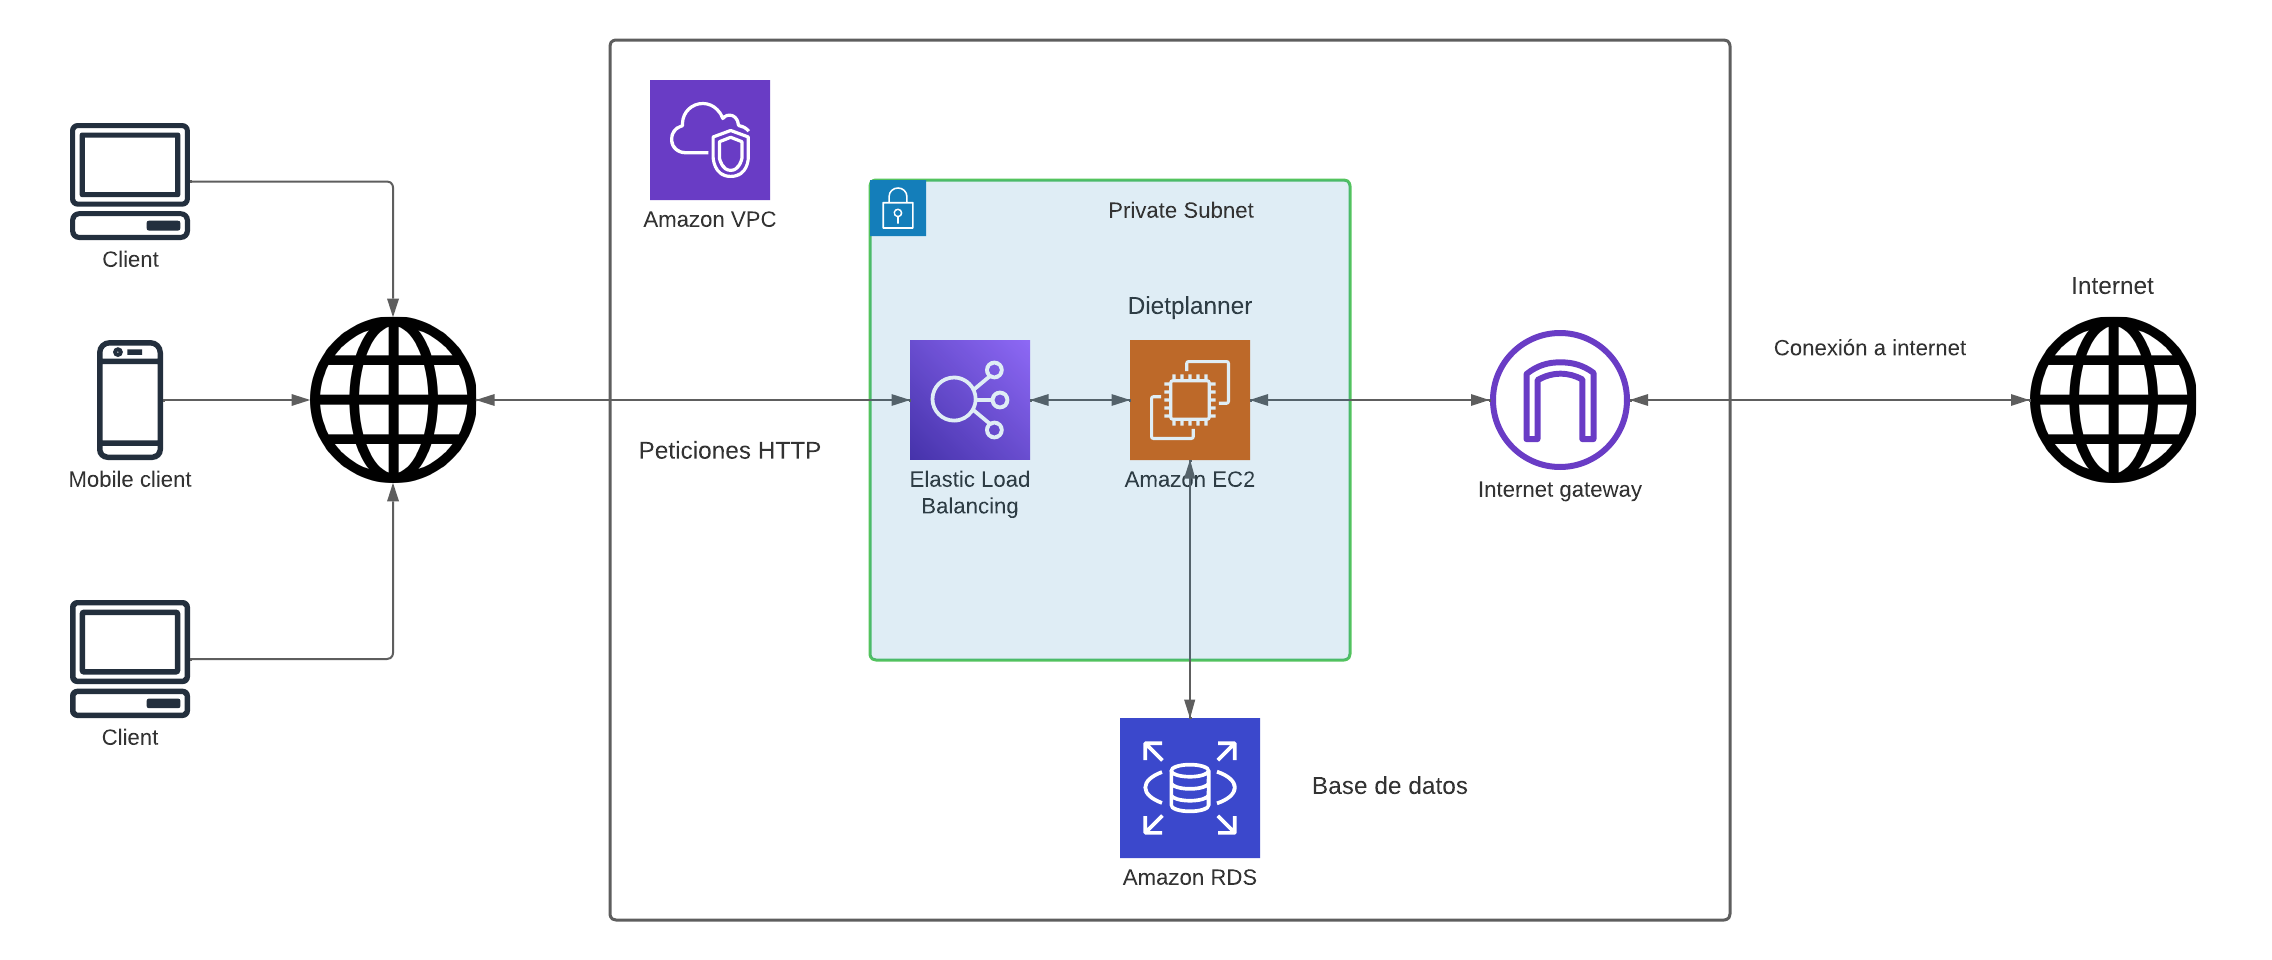
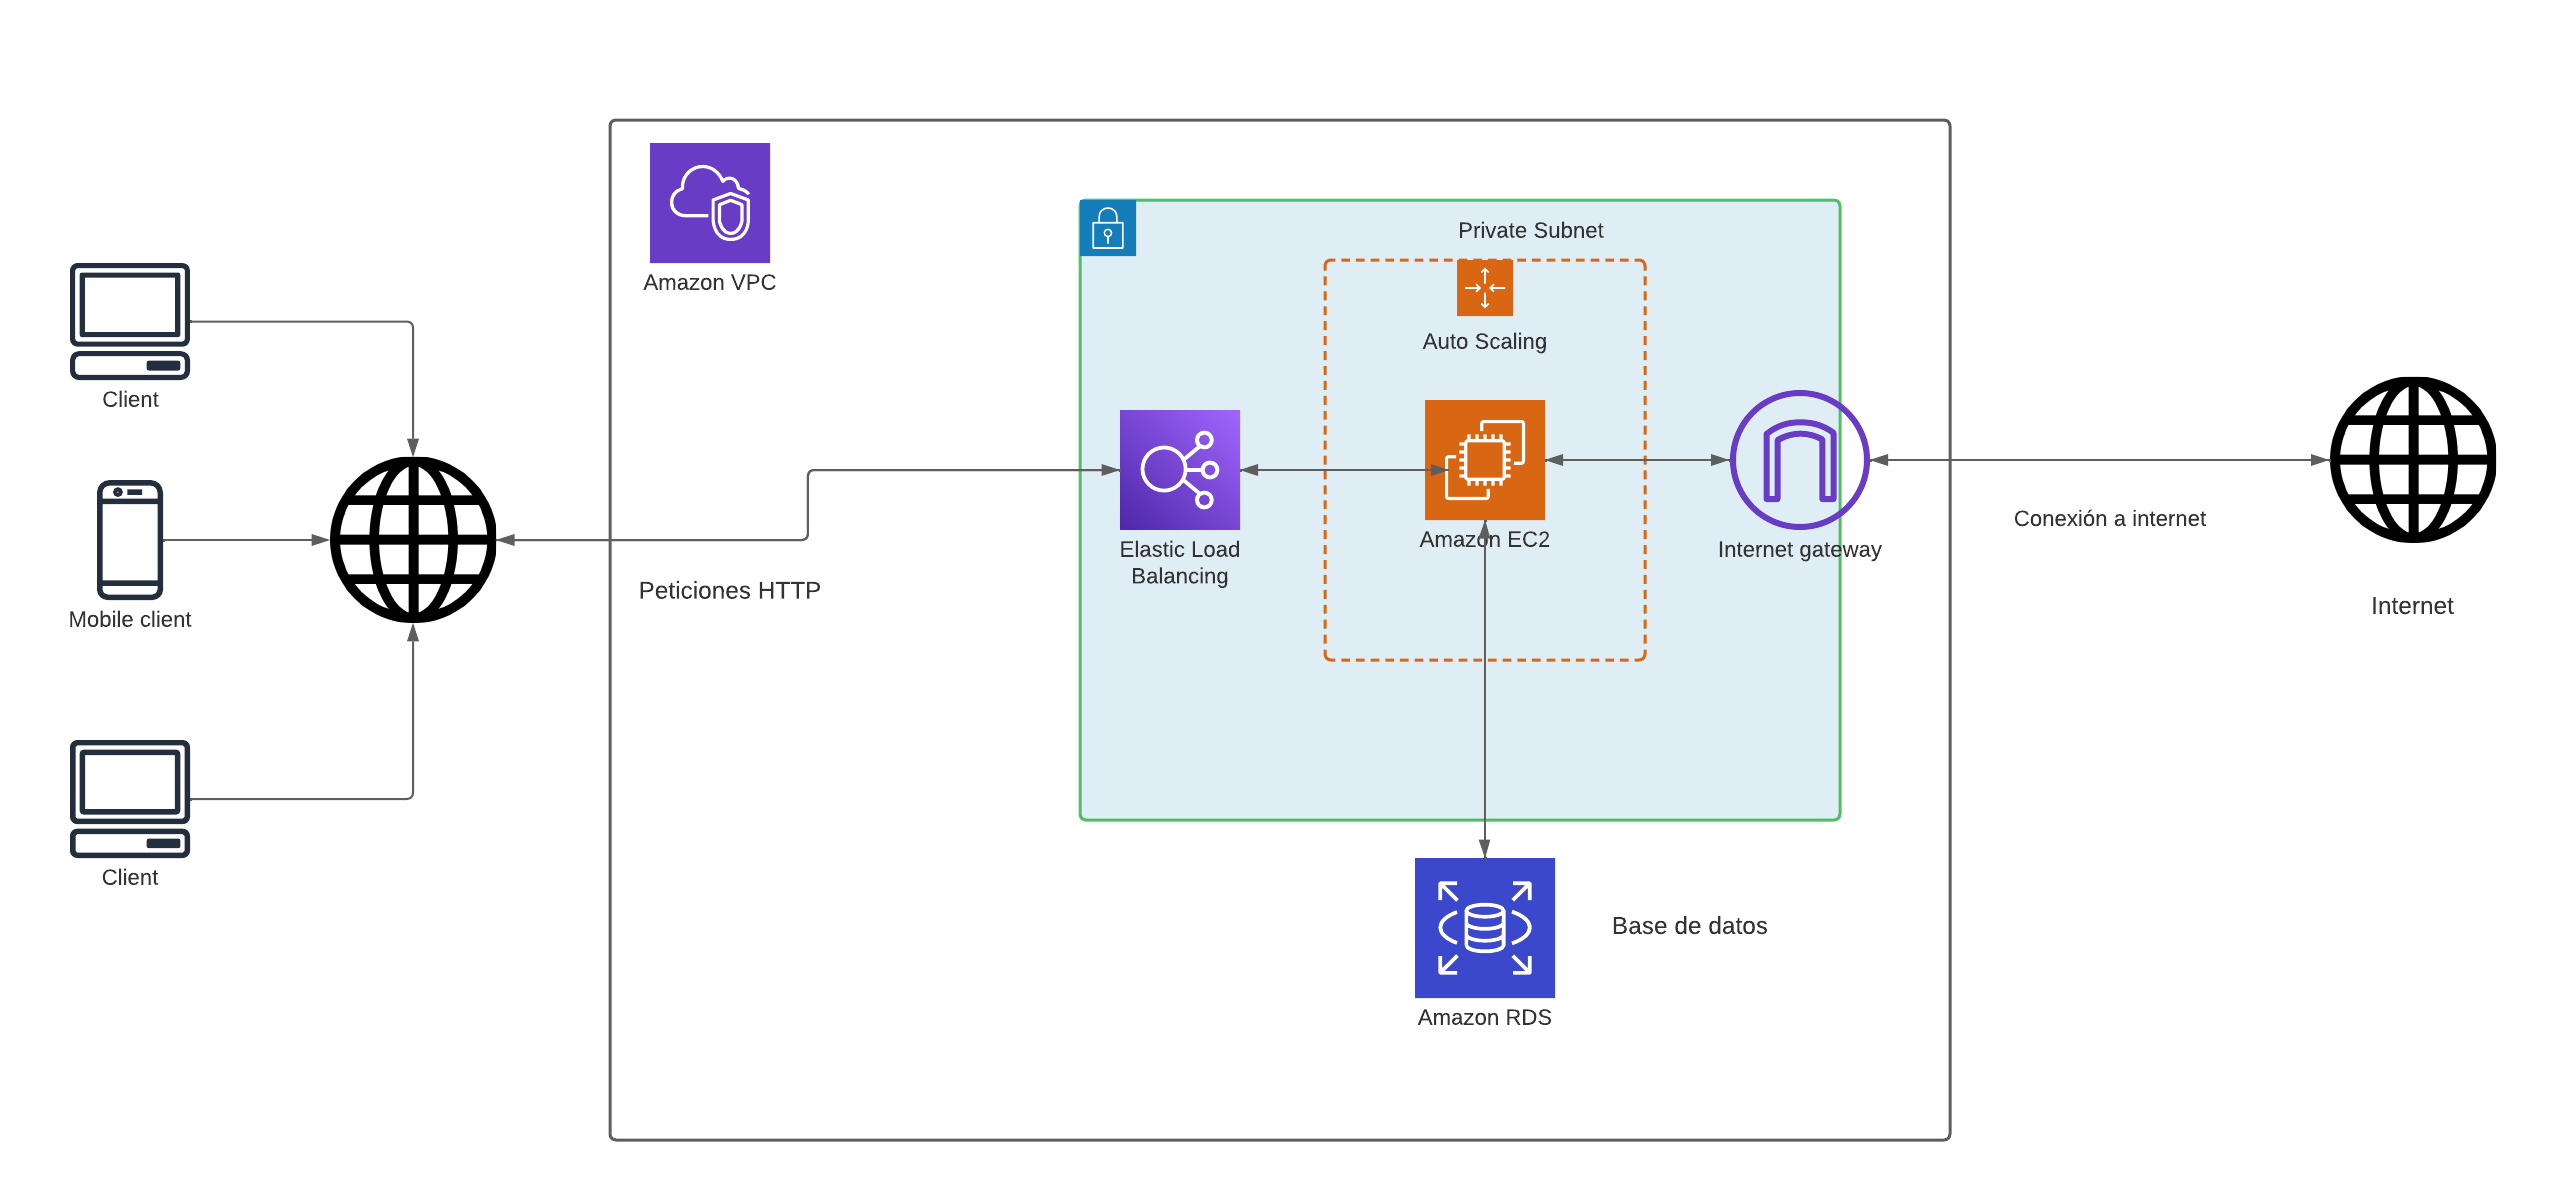
Fix #55. Se hacen las correcciones y sugerencias

Changed region(s): [[0.25, 0.0312, 0.9688, 0.9688], [0.0312, 0.125, 0.3438, 0.5312], [0.0312, 0.625, 0.1562, 0.7812]]

diff --git a/doc/Secciones/09_despliegue.tex b/doc/Secciones/09_despliegue.tex
@@ -25,7 +25,7 @@ Se utilizará Nginx como reverse proxy para añadir más seguridad a la infraest
 \section{Infraestructura en la nube}
 Como servicio de infraestructura en la nube se utilizará AWS, aunque existen otros IaaS como Azure y Google Cloud. Pero AWS ofrece un gran abanico de servicios que pueden ser útiles en el desarrollo del proyecto, no solo en seguridad, sino en escalabilidad. 
 
-Para el despliegue del proyecto se pueden seguir varias alternativas, la más razonable es utilizar una instancia basada en Linux. En AWS, las instancias se conocen como Elastic Cloud Computing (EC2) y tienen diferentes tamaños dependiendo de que componentes se quieran potenciar. Para el proyecto se utilizará una EC2 de la familia \textit{T3}, orientada a un propósito general, en cuanto al tamaño no se esperan inicialmente demasiadas peticiones simultáneas así que se puede utilizar una instancia \textit{t3.medium} con 2vCPU y 4GB de memoria.
+Para el despliegue del proyecto se pueden seguir varias alternativas, la más razonable es utilizar una instancia basada en Linux. En AWS, las instancias se conocen como Elastic Cloud Computing (EC2) y tienen diferentes tamaños dependiendo de que componentes se quieran potenciar. Para el proyecto se utilizarán EC2 de la familia \textit{T3}, orientada a un propósito general, en cuanto al tamaño no se esperan inicialmente demasiadas peticiones simultáneas así que se puede utilizar una instancia \textit{t3.medium} con 2vCPU y 4GB de memoria. De manera normal se utilizarán dos instancias EC2, pero se incluye una plantilla para escalar la instancia y ejecutar la aplicación, dándose a conocer al balanceador de carga para añadir escalabilidad a la aplicación. Cuando no haya mucha carga se escalaran hacia abajo automáticamente, ahorrando costes. 
 
 Actualmente se tiene SQLite en un fichero ubicado en la raíz del proyecto, pero para añadir escalabilidad, se utilizará una instancia del servicio de base de datos relacional (RDS) de AWS. Actualmente no se permite el uso de SQLite en AWS, con lo cual existen dos alternativas, confiar en SQLite3 ya que permite la lectura simultánea y no se realizará ninguna escritura o bien migrar la base de datos a una Aurora con el motor MySQL o PostgreSQL, que son menos costosas que utilizar una base de datos ``pura''. Al igual que ocurría con las EC2, se debe elegir el tipo de instancia para la base de datos, se elegirá la más pequeña, una Aurora equilibrada. Para una alta disponibilidad de los datos, se migrarán a una Aurora, ya que la migración no incurre mucho esfuerzo, simplemente se cambia la dirección de la base de datos y se cargan los datos a la nueva RDS, El \textit{ORM} de Django se encargará del resto.
 

diff --git a/doc/Secciones/05_Implementacion.tex b/doc/Secciones/05_Implementacion.tex
@@ -112,5 +112,12 @@ En primer lugar, se utilizó SQLAlchemy por ser una herramienta con un uso senci
 
 Después de la elección de Django como framework web, para no tener redundancia en las herramientas, se ha migrado el uso de SQLAlchemy al uso de modelos en Django. 
 
+\section{Web Server Gateway Interface}
+Antes de lanzarse a elegir un Web Server Gateway Interface (WSGI), considero necesario que se explique que es y para que sirve. Para establecer una base sobre porqué se necesita este módulo en la aplicación. Si bien es cierto que, en teoría, sería posible subir el proyecto a una instancia en la nube y exponer el puerto \gls{http} creando un servicio poco seguro.
+
+Un servidor web no sabe ejecutar aplicaciones en python, por eso Grisha Trubetskoy creó un modulo para Apache conocido como \textit{mod\_python}. Era simple y llanamente una implementación que permitía ejecutar código de python en un servidor. Poco después, fruto de la aparición de vulnerabilidades la comunidad de python comenzó a implementar WSGI, que realmente se trata de un estándar escrito en \hred{https://peps.python.org/pep-3333/}{PEP 3333}. Al ser un estándar, permite definir de manera organizada por medio de reglas, que se requiere de la aplicación. 
+
+El WSGI que más se utiliza en la comunidad de Python es Gunicorn ya que es muy ligero, sencillo de implementar, escalable, y se ajusta perfectamente a las necesidades de cualquier proyecto. uWSGI es muy popular también pero ofrece demasiadas funcionalidades que se solapan entre ellas. Por las ventajas mencionadas de Gunicorn, se escoge este WSGI.
+
 \section{Servidor Web}
 Para exponer la aplicación a internet de forma segura, es necesario utilizar un servidor web que permita desplegar la aplicación para recoger peticiones del usuario. Aunque se pueda desplegar la aplicación, tal y como está, para añadir escalabilidad y seguridad, se utilizará un servidor web. Existen otros servidores web muy populares como Apache o LightSpeed, se escoge Nginx como servidor web por su flexibilidad, facilidad de configuración y modularidad, permitiendo extender la funcionalidad hasta el punto deseado, cubriendo las necesades de la aplicación a medida.

diff --git a/tasks.py b/tasks.py
@@ -59,13 +59,13 @@ def migrate(c, app="app"):
     run(f"poetry run python3 dietplanner/manage.py makemigrations {app}")
     run(f"poetry run python3 dietplanner/manage.py migrate {app}")
 @task
-def loadData(c):
+def loadData(c, path="data/load_data.py"):
     print("Cargando datos...")
-    run("poetry run python3 dietplanner/manage.py shell < data/load_data.py")
+    run(f"poetry run python3 dietplanner/manage.py shell < {path}")
 
 @task
-def runserver(c):
-    run("cd dietplanner/ && poetry run gunicorn --bind 0.0.0.0:8000 dietplanner.wsgi:application  ")
+def runserver(c, app="dietplanner.wsgi:application"):
+    run(f"cd dietplanner/ && poetry run gunicorn --bind 0.0.0.0:8000 {app}")
 
 @task
 def test(c, test="app.tests.tests"):
